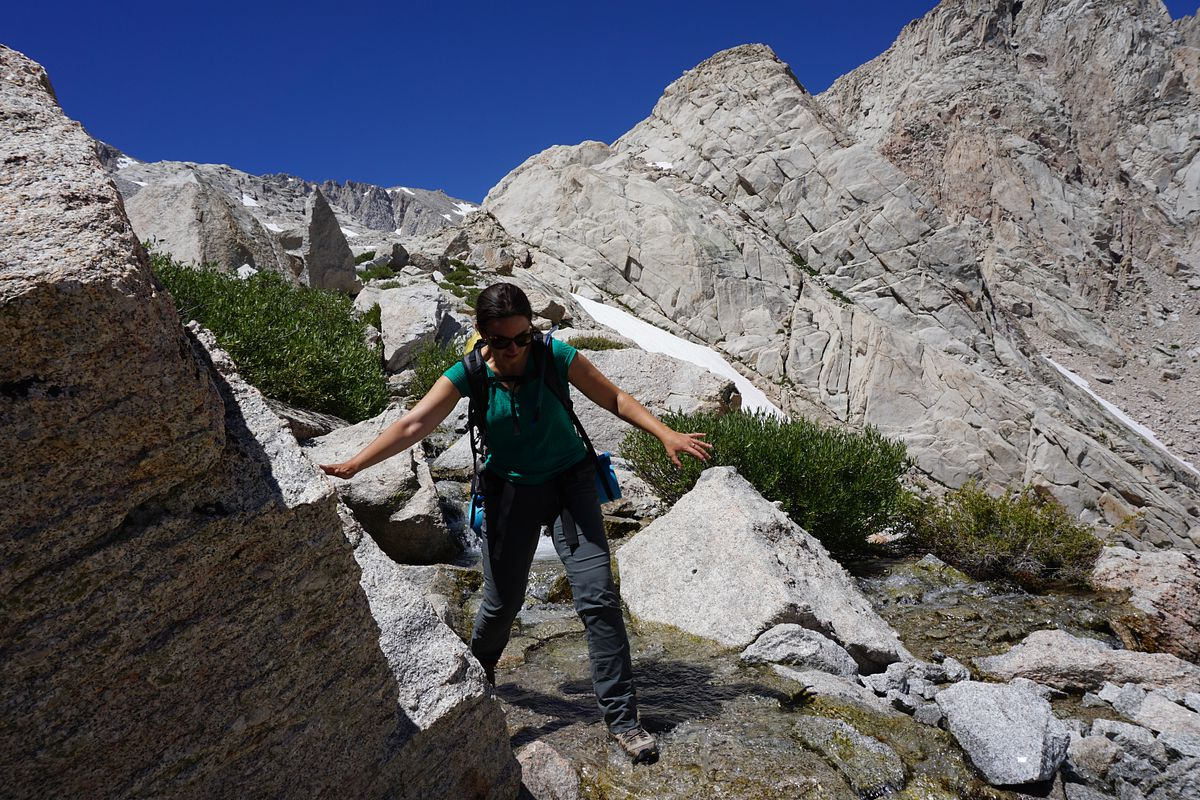
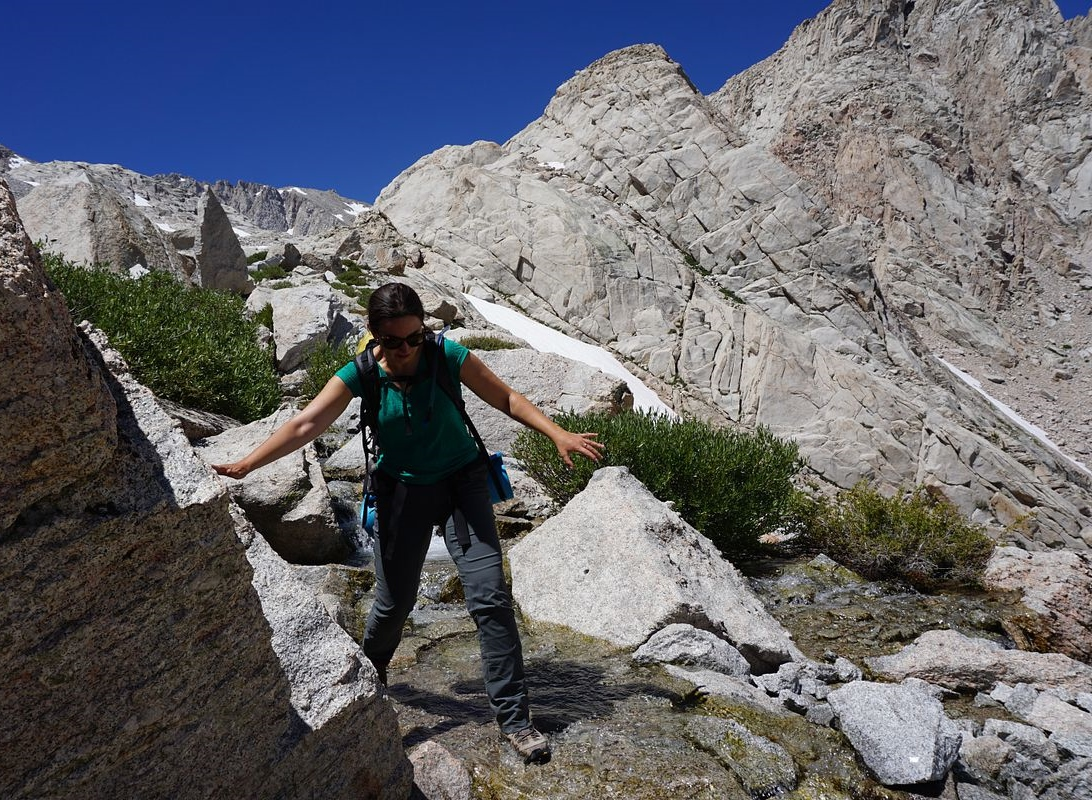
Wording & Photos

diff --git a/pages/2017/mount-whitney.js b/pages/2017/mount-whitney.js
@@ -24,10 +24,10 @@ class MountWhitney extends Component {
         tags={['Attention aux marmottes', 'Permis obligatoires', 'Difficile', 'Eau sur le chemin']}
         photos={[
           {
-            src: '/static/2017/mount-whitney/stars.jpg',
-            width: 1000,
-            height: 1000,
-            caption: 'Sur la route de Whitney, nuit étoilée donnant sur le Half Dome'
+            src: '/static/2017/mount-whitney/ovni.jpg',
+            width: 449,
+            height: 673,
+            caption: 'Sur la route de Whitney, une apparition...'
           },
           {
             src: '/static/2017/mount-whitney/biche.jpg',
@@ -55,8 +55,8 @@ class MountWhitney extends Component {
           },
           {
             src: '/static/2017/mount-whitney/selfie-top.jpg',
-            width: 2000,
-            height: 1333,
+            width: 1200,
+            height: 635,
             caption: 'Photo pic !'
           },
           {
@@ -73,8 +73,8 @@ class MountWhitney extends Component {
           },
           {
             src: '/static/2017/mount-whitney/marmotte.jpg',
-            width: 2000,
-            height: 1333,
+            width: 568,
+            height: 674,
             caption: 'Protégez votre nourriture des marmottes !'
           },
           {
@@ -85,8 +85,8 @@ class MountWhitney extends Component {
           },
           {
             src: '/static/2017/mount-whitney/sarah-sierras.jpg',
-            width: 2000,
-            height: 1333,
+            width: 1200,
+            height: 678,
             caption: 'On commence la descente'
           },
           {
@@ -103,8 +103,8 @@ class MountWhitney extends Component {
           },
           {
             src: '/static/2017/mount-whitney/water-trail-sarah.jpg',
-            width: 2000,
-            height: 1333,
+            width: 1092,
+            height: 800,
             caption: 'Caution, wet floor'
           },
           {
@@ -145,11 +145,11 @@ class MountWhitney extends Component {
         >
           <P>
             Avançons de quelques mois, Sarah a donc traversé l’Atlantique et nous voilà ensemble à quelques jours du départ.
-            Les sacs sont prêts, la météo s’annonce bonne et les dernières nouvelles du trail semblent indiquer qu’il n’y aura pas trop de neige - malgré les avertissements d’un randonneur que nous avions croisé sur le chemin du <a href='/2017/mount-whitney'>Mont Mitchell</a>:
+            Les sacs sont prêts, la météo s’annonce bonne et les dernières nouvelles du trail semblent indiquer qu’il n’y aura pas trop de neige - malgré les avertissements d’un randonneur que nous avions croisé sur le chemin du <a href='/2017/mount-whitney'>Mont Mitchell</a> :
           </P>
           <Quote>The snow was brutal!</Quote>
           <P>
-            Nous avons prévu de traverser les Sierras en passant par Yosemite, et de gravir le <a href='/2017/mount-dana'>mont Dana</a> (3 981 m) la veille pour nous habituer à l’altitude.
+            Nous avons prévu de traverser les Sierras en passant par Yosemite, et de gravir le <a href='/2017/mount-dana'>Mont Dana</a> (3 981 m) la veille pour nous habituer à l’altitude.
           </P>
         </Section>
 
@@ -187,7 +187,7 @@ class MountWhitney extends Component {
           }}
         >
           <P>
-            Après un déjeuner aux bords du lac, nous nous remettons en marche vers Trail Camp où nous bivouaquerons.
+            Après un déjeuner au bord de Mirror Lake, nous nous remettons en marche vers Trail Camp où nous bivouaquerons.
             Le paysage devient plus aride, le chemin plus rocailleux, mais la pente est toujours douce et nous avançons à bon rythme.
           </P>
         </Section>
@@ -284,7 +284,7 @@ class MountWhitney extends Component {
             Le bonheur est palpable, et on se pose à quelques mètres du bord, emmitouflés dans un sac de couchage, regardant plein Est.
           </P>
           <P>
-            <Emoji name='sunrise'/>
+            <Emoji name='sunrise-over-mountains'/>
           </P>
           <P>
             Je ne pense pas avoir été plus ému qu’à ce moment - serrés pour se tenir chaud, les premiers rayons venant frapper nos visages, et quelques applaudissements et cris de joie des autres chanceux qui ont atteint le sommet à temps.
@@ -300,10 +300,10 @@ class MountWhitney extends Component {
             Kings Canyon et les Sierras à l’Ouest, les plaines de l’Est, et la température qui monte doucement (heureusement qu’on redescend !).
           </P>
           <P>
-            Au passage, on compte les lacets pour vérifier qu’il y en a bien 97 <sup>*</sup>.
+            Au passage, on compte les lacets pour vérifier qu’il y en a bien 97<sup>*</sup>.
           </P>
           <Footnote>
-            (ou 99, si vous demandez à Sarah. Mais tout le monde sait bien que les deux derniers ne comptent pas vraiment)
+            ou 99, si vous demandez à Sarah. Mais tout le monde sait bien que les deux derniers ne comptent pas vraiment...
           </Footnote>
         </Section>
 
@@ -329,7 +329,7 @@ class MountWhitney extends Component {
           sidebarContent={<Img src='/static/2017/mount-whitney/fini.jpg'/>}
         >
           <P>
-            Nous voilà au point de départ, après une bonne journée de 15h. Faire l’ascension d’un pic à plus de 4000m d’altitude : <Emoji name='white-check-mark'/> !
+            Nous revoilà au point de départ, après une bonne journée de 15h. Faire l’ascension d’un pic à plus de 4000m d’altitude : <Emoji name='white-check-mark'/> !
           </P>
         </Section>
       </Post>
